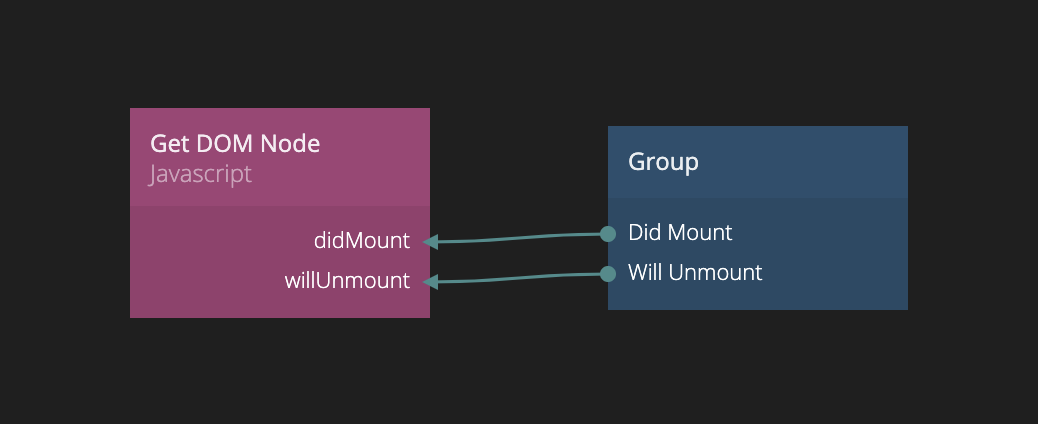
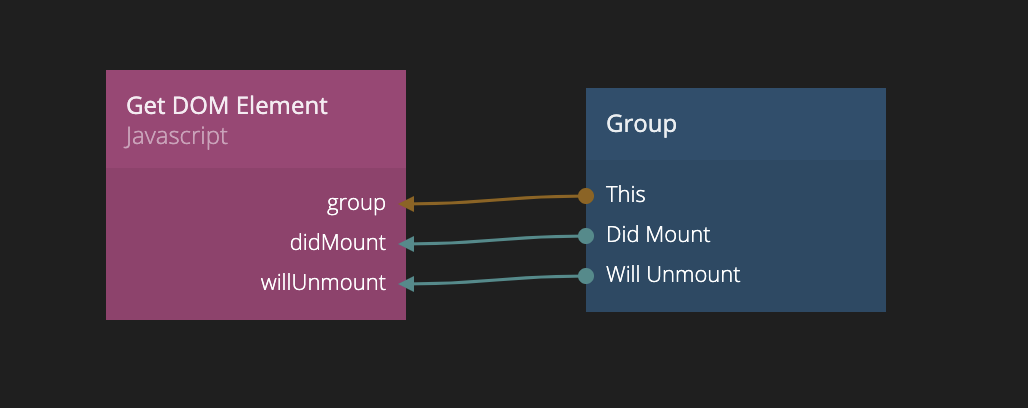
js example: added missing connection

Changed region(s): [[0.0934, 0.1471, 0.8716, 0.7941]]

diff --git a/javascript-examples/get-dom-element.md b/javascript-examples/get-dom-element.md
@@ -2,7 +2,7 @@
 
 <div class="ndl-images">
     <img src="/javascript-examples/get-dom-element.png" class="ndl-image large"></img>  
-     <button class="ndl-copy-nodes-button" onClick='copyJsonToClipboard({"nodes":[{"id":"14f740f9-6f72-d6a0-dad8-6c479775d781","type":"Group","x":398,"y":179,"parameters":{},"ports":[],"dynamicports":[],"children":[]},{"id":"7eb3559b-fa9b-0fea-378f-c2926a717b8d","type":"Javascript2","label":"Get DOM Element","x":158,"y":170,"parameters":{"code":"script({\n\tinputs:{\n\t    group: \"reference\"\n\t},\n\tsignals:{\n    \tdidMount() {\n            this.domElement = ReactDOM.findDOMNode(this.inputs.group.getRef());\n            //this.domElement.addEventListener(...)\n    \t},\n    \twillUnmount() {\n    \t    //this.domElement.removeEventListener(...)\n    \t}\n\t}\n})\n"},"ports":[],"dynamicports":[{"name":"group","plug":"input","type":{"name":"reference"},"group":"Inputs","index":2},{"name":"didMount","plug":"input","type":{"name":"signal"},"group":"Inputs","index":3},{"name":"willUnmount","plug":"input","type":{"name":"signal"},"group":"Inputs","index":4}],"children":[]}],"connections":[{"fromId":"14f740f9-6f72-d6a0-dad8-6c479775d781","fromProperty":"didMount","toId":"7eb3559b-fa9b-0fea-378f-c2926a717b8d","toProperty":"didMount"},{"fromId":"14f740f9-6f72-d6a0-dad8-6c479775d781","fromProperty":"willUnmount","toId":"7eb3559b-fa9b-0fea-378f-c2926a717b8d","toProperty":"willUnmount"}]})'></button>
+     <button class="ndl-copy-nodes-button" onClick='copyJsonToClipboard({"nodes":[{"id":"03300332-670d-cffd-75e1-57fb2dc889d7","type":"Group","x":398,"y":179,"parameters":{},"ports":[],"dynamicports":[],"children":[]},{"id":"eb8d6aff-52dc-cf1f-cadf-0bb9d5e1bb80","type":"Javascript2","label":"Get DOM Element","x":158,"y":170,"parameters":{"code":"script({\n\tinputs:{\n\t    group: \"reference\"\n\t},\n\tsignals:{\n    \tdidMount() {\n            this.domElement = ReactDOM.findDOMNode(this.inputs.group.getRef());\n            //this.domElement.addEventListener(...)\n    \t},\n    \twillUnmount() {\n    \t    //this.domElement.removeEventListener(...)\n    \t}\n\t}\n})\n"},"ports":[],"dynamicports":[{"name":"group","plug":"input","type":{"name":"reference"},"group":"Inputs","index":2},{"name":"didMount","plug":"input","type":{"name":"signal"},"group":"Inputs","index":3},{"name":"willUnmount","plug":"input","type":{"name":"signal"},"group":"Inputs","index":4}],"children":[]}],"connections":[{"fromId":"03300332-670d-cffd-75e1-57fb2dc889d7","fromProperty":"didMount","toId":"eb8d6aff-52dc-cf1f-cadf-0bb9d5e1bb80","toProperty":"didMount"},{"fromId":"03300332-670d-cffd-75e1-57fb2dc889d7","fromProperty":"willUnmount","toId":"eb8d6aff-52dc-cf1f-cadf-0bb9d5e1bb80","toProperty":"willUnmount"},{"fromId":"03300332-670d-cffd-75e1-57fb2dc889d7","fromProperty":"this","toId":"eb8d6aff-52dc-cf1f-cadf-0bb9d5e1bb80","toProperty":"group"}]})'></button>
 </div>
 
 Sometimes you need to get access to the underlying DOM element and use the browser APIs directly.
